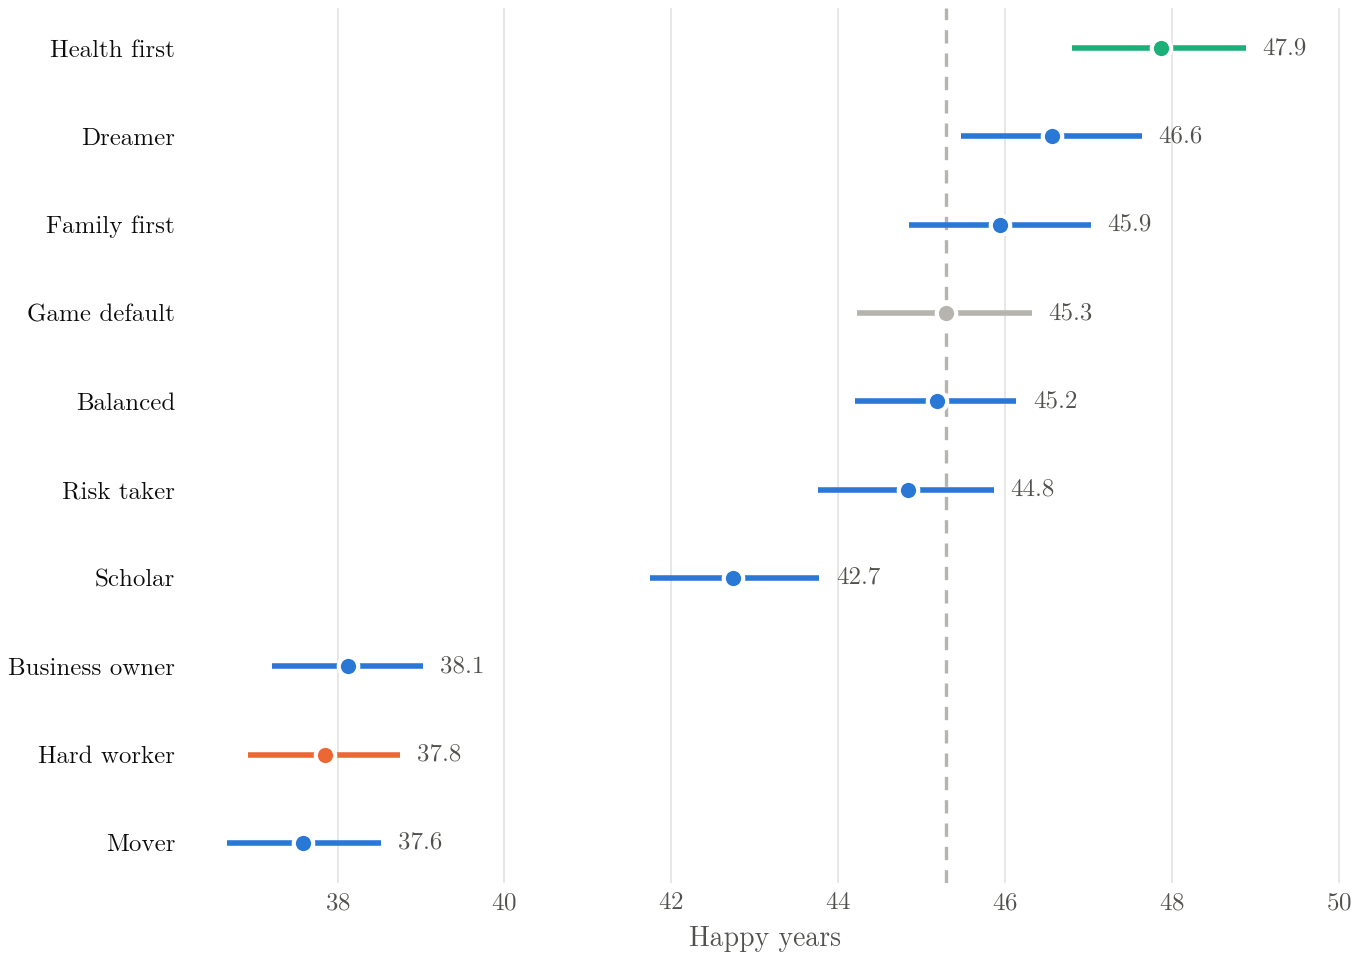
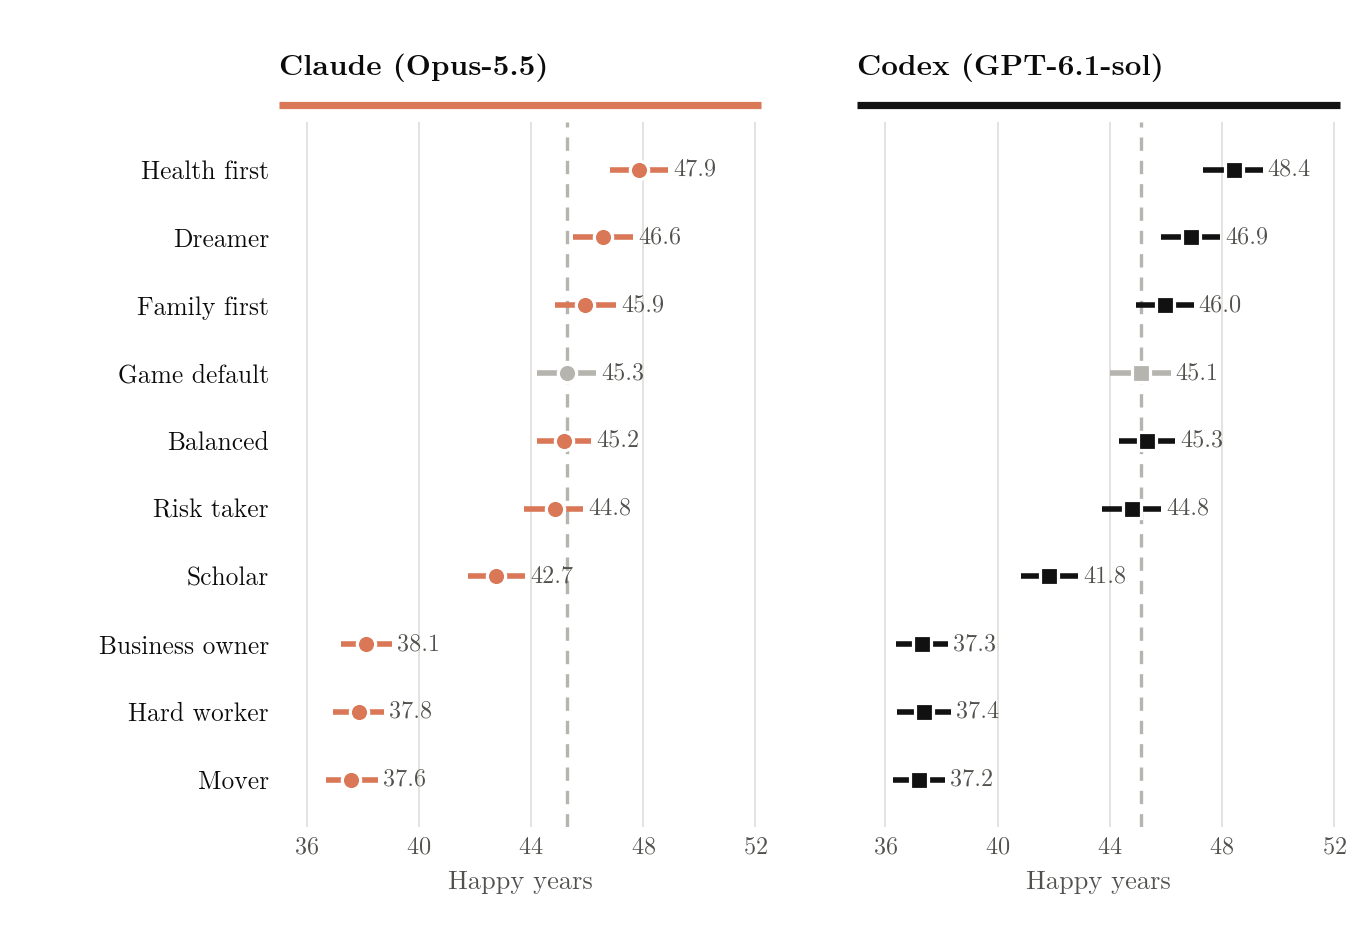
Compare the ten life plans side by side

diff --git a/testbed/_posts/2026-10-27-nature-vs-nurture.html b/testbed/_posts/2026-10-27-nature-vs-nurture.html
@@ -287,18 +287,13 @@ table.nvn tr.ref td { background: #f4f4f2; }  /* the game default, the row every
 
 <h3>Results</h3>
 <div class="article">
-    Each result appears first for Claude and then for the matched Codex rerun.
-    Each sample is sorted separately where a chart ranks plans or effects.
+    The ten-plan figure places Claude and Codex side by side, with the same row order and axis scale.
+    The other paired figures show Claude first, then Codex.
+    Where those charts rank plans or effects, each sample is sorted separately.
     <br><br>
-    <figure id="nvn-claude-3" data-run="claude" data-study="original">
-        <div class="nvn-run-label">Claude (Opus-5.5)</div>
-        <img alt="Claude (Opus-5.5): Happy years by life plan, mean with 95% confidence interval" src="/img/nature-vs-nurture/nature-vs-nurture-3.png" width="100%" onerror=handle_image_error(this)>
-        <figcaption>Mean happy years by life plan, with 95% confidence intervals. The dashed line indicates the game default.</figcaption>
-    </figure>
-    <figure id="nvn-codex-3" data-run="codex" data-study="matched">
-        <div class="nvn-run-label">Codex (GPT-6.1-sol), matched rerun</div>
-        <img alt="Codex (GPT-6.1-sol) matched rerun: Happy years by life plan, mean with 95% confidence interval" src="/img/nature-vs-nurture/nature-vs-nurture-22.png" width="100%" onerror=handle_image_error(this)>
-        <figcaption>Mean happy years by life plan, with 95% confidence intervals. The dashed line indicates the game default.</figcaption>
+    <figure id="nvn-plan-comparison" data-run="both" data-study="matched-comparison">
+        <img alt="Claude (Opus-5.5) in orange circles and Codex (GPT-6.1-sol) in black squares: mean happy years for ten life plans, side by side with 95% confidence intervals" src="/img/nature-vs-nurture/nature-vs-nurture-3.png" width="100%" onerror=handle_image_error(this)>
+        <figcaption>Mean happy years by life plan, with 95% confidence intervals. Orange circles show Claude and black squares show Codex. Both panels use Claude's original row order and the same axis scale. Gray markers and dashed lines show each run's game-default mean.</figcaption>
     </figure>
     <br>
     Health first has the highest mean in both samples: 47.9 happy years in Claude and 48.4 in Codex.
@@ -322,7 +317,7 @@ table.nvn tr.ref td { background: #f4f4f2; }  /* the game default, the row every
     Health first and Dreamer produce more happy years than the game default after the Holm correction.
     In Claude's run, Health first adds 2.6 happy years and has the longest mean lifespan, 75.6 years compared with 69.4 under the default.
     Dreamer adds 1.3 happy years, with a result close to the significance threshold (Holm p = 0.047).
-    Across the plan figures, Health first is green, Hard worker is orange and the game default is gray.
+    In the remaining plan figures, Health first is green, Hard worker is orange and the game default is gray.
     <br><br>
     In Claude's run, the four plans with the highest incomes have the lowest mean happy years.
     Hard worker and Scholar have the two highest lifetime incomes but produce 7.5 and 2.6 fewer happy years, respectively.
